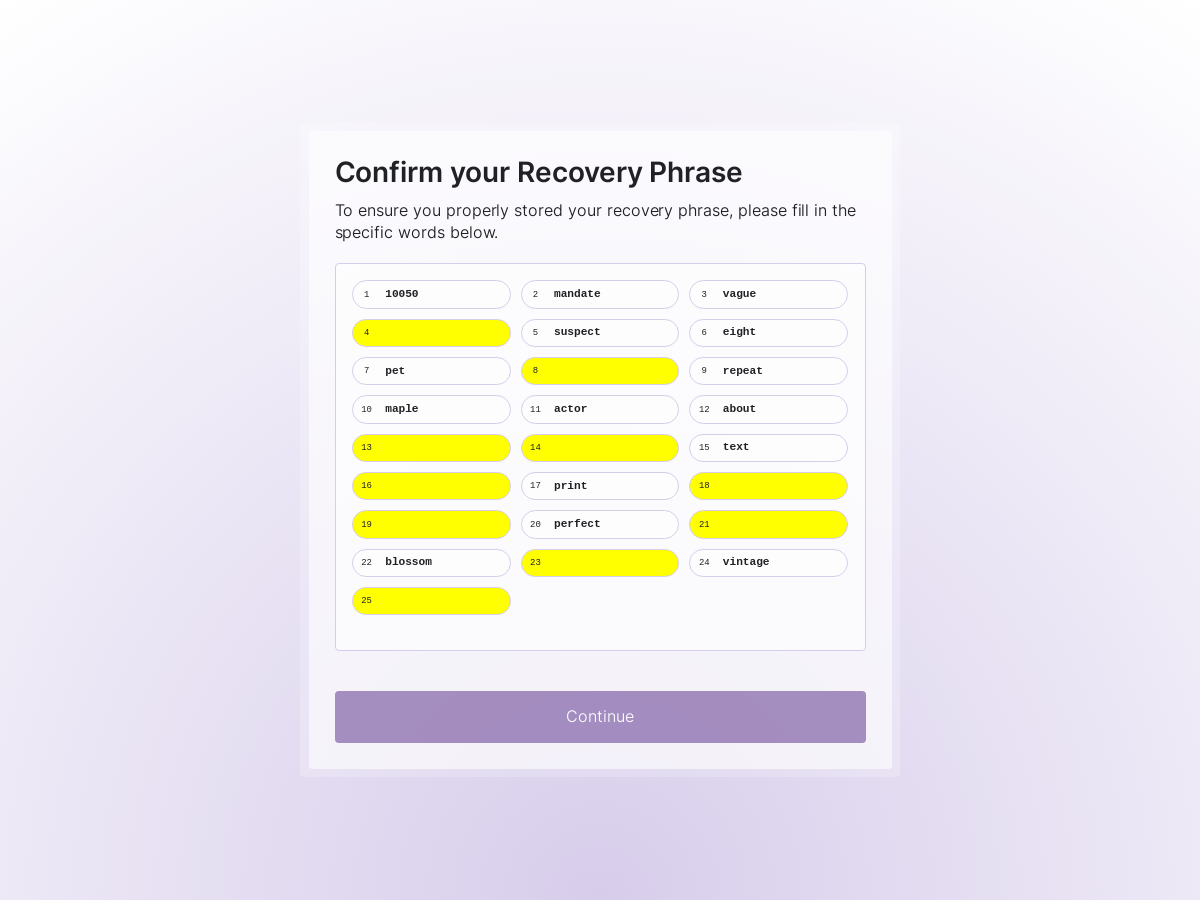
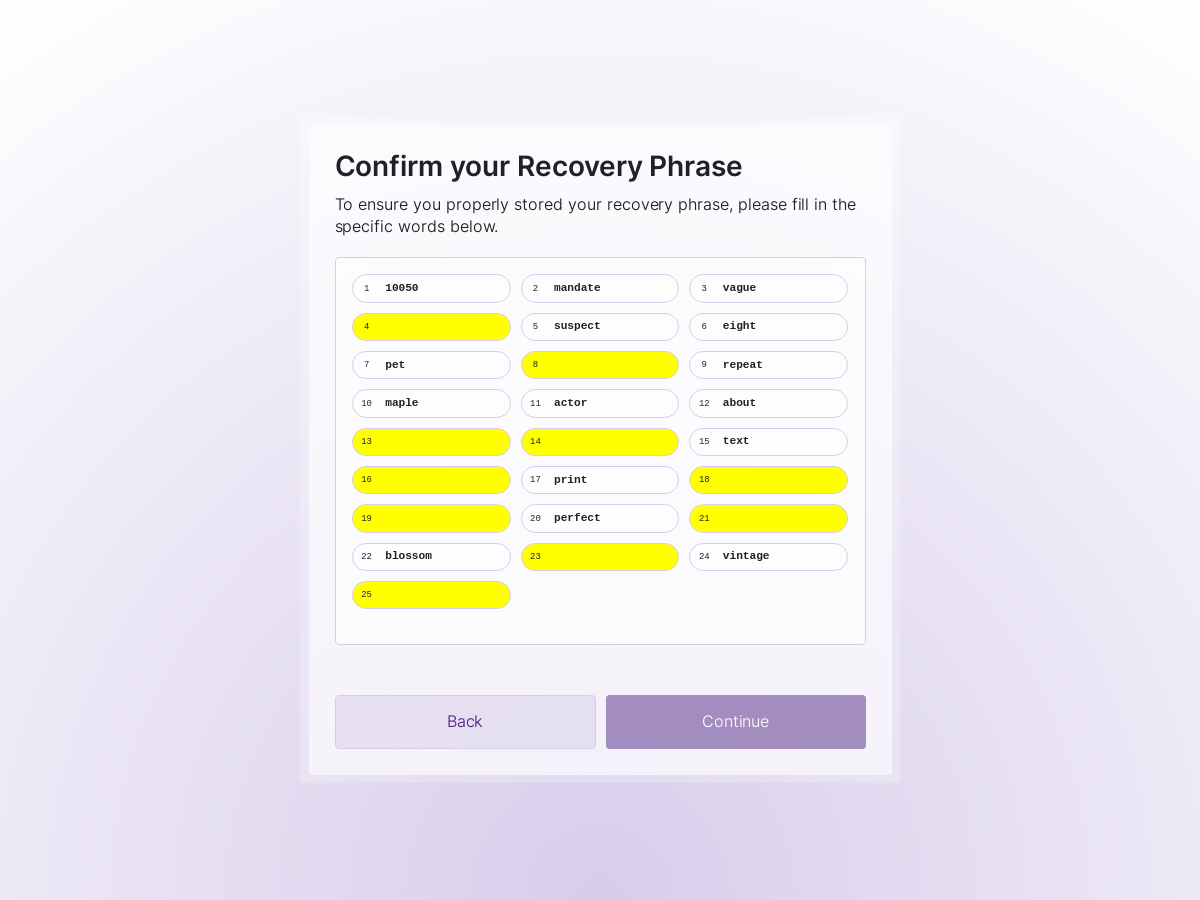
Add back button to recovery confirmation (#1325)
* Add back button to recovery confirmation

This allows the user to go back to the page that displays the recovery
phrase, from the phrase confirmation/input page.

* 🤖 Selenium screenshots auto-update

---------

Changed region(s): [[0.2775, 0.1556, 0.7092, 0.6844], [0.2775, 0.7467, 0.7092, 0.84]]

diff --git a/src/frontend/src/flows/recovery/confirmSeedPhrase.ts b/src/frontend/src/flows/recovery/confirmSeedPhrase.ts
@@ -27,10 +27,12 @@ const checkWord = (word: Word): boolean =>
 const confirmSeedPhraseTemplate = ({
   words: words_,
   confirm,
+  back,
   i18n,
 }: {
   words: Omit<Word, "elem">[];
   confirm: () => void;
+  back: () => void;
   i18n: I18n;
 }) => {
   const copy = i18n.i18n(copyJson);
@@ -71,7 +73,14 @@ const confirmSeedPhraseTemplate = ({
         </ol>
       </div>
 
-      <div class="l-stack">
+      <div class="c-button-group">
+        <button
+          @click=${() => back()}
+          data-action="back"
+          class="c-button c-button--secondary"
+        >
+          ${copy.back}
+        </button>
         <button
           @click=${() => confirm()}
           data-action="next"
@@ -143,7 +152,7 @@ export const confirmSeedPhrase = ({
   phrase,
 }: {
   phrase: string;
-}): Promise<void> => {
+}): Promise<"confirmed" | "back"> => {
   return new Promise((resolve) => {
     const i18n = new I18n();
     confirmSeedPhrasePage({
@@ -151,7 +160,8 @@ export const confirmSeedPhrase = ({
         word,
         check: checkIndices.includes(i),
       })),
-      confirm: () => resolve(),
+      confirm: () => resolve("confirmed"),
+      back: () => resolve("back"),
       i18n,
     });
   });

diff --git a/src/frontend/src/flows/recovery/setupRecovery.ts b/src/frontend/src/flows/recovery/setupRecovery.ts
@@ -8,7 +8,7 @@ import {
   IC_DERIVATION_PATH,
   AuthenticatedConnection,
 } from "../../utils/iiConnection";
-import { unknownToString } from "../../utils/utils";
+import { unknownToString, unreachableLax } from "../../utils/utils";
 import type { ChooseRecoveryProps } from "./chooseRecoveryMechanism";
 import { chooseRecoveryMechanism } from "./chooseRecoveryMechanism";
 import { displaySeedPhrase } from "./displaySeedPhrase";
@@ -99,8 +99,24 @@ export const setupPhrase = async (
   );
 
   const phrase = userNumber.toString(10) + " " + seedPhrase;
-  await displaySeedPhrase(phrase);
-  await confirmSeedPhrase({ phrase });
+
+  // Loop until the user has confirmed the phrase
+  for (;;) {
+    await displaySeedPhrase(phrase);
+
+    const result = await confirmSeedPhrase({ phrase });
+    // User has confirmed, so break out of the loop
+    if (result === "confirmed") {
+      break;
+    }
+
+    // User has clicked the back button, so we retry
+    if (result === "back") {
+      continue;
+    }
+
+    unreachableLax(result);
+  }
 
   await withLoader(() =>
     connection.add(

diff --git a/src/frontend/src/showcase.ts b/src/frontend/src/showcase.ts
@@ -381,6 +381,7 @@ const iiPages: Record<string, () => void> = {
   confirmSeedPhrase: () =>
     confirmSeedPhrasePage({
       confirm: () => console.log("confirmed"),
+      back: () => console.log("back"),
       words: recoveryPhraseText.split(" ").map((word, i) => ({
         word,
         check: checkIndices.includes(i),

diff --git a/src/frontend/src/flows/recovery/confirmSeedPhrase.test.ts b/src/frontend/src/flows/recovery/confirmSeedPhrase.test.ts
@@ -56,6 +56,9 @@ test("words can be completed", async () => {
       confirm: () => {
         /* */
       },
+      back: () => {
+        /* */
+      },
       i18n,
     },
     document.body
